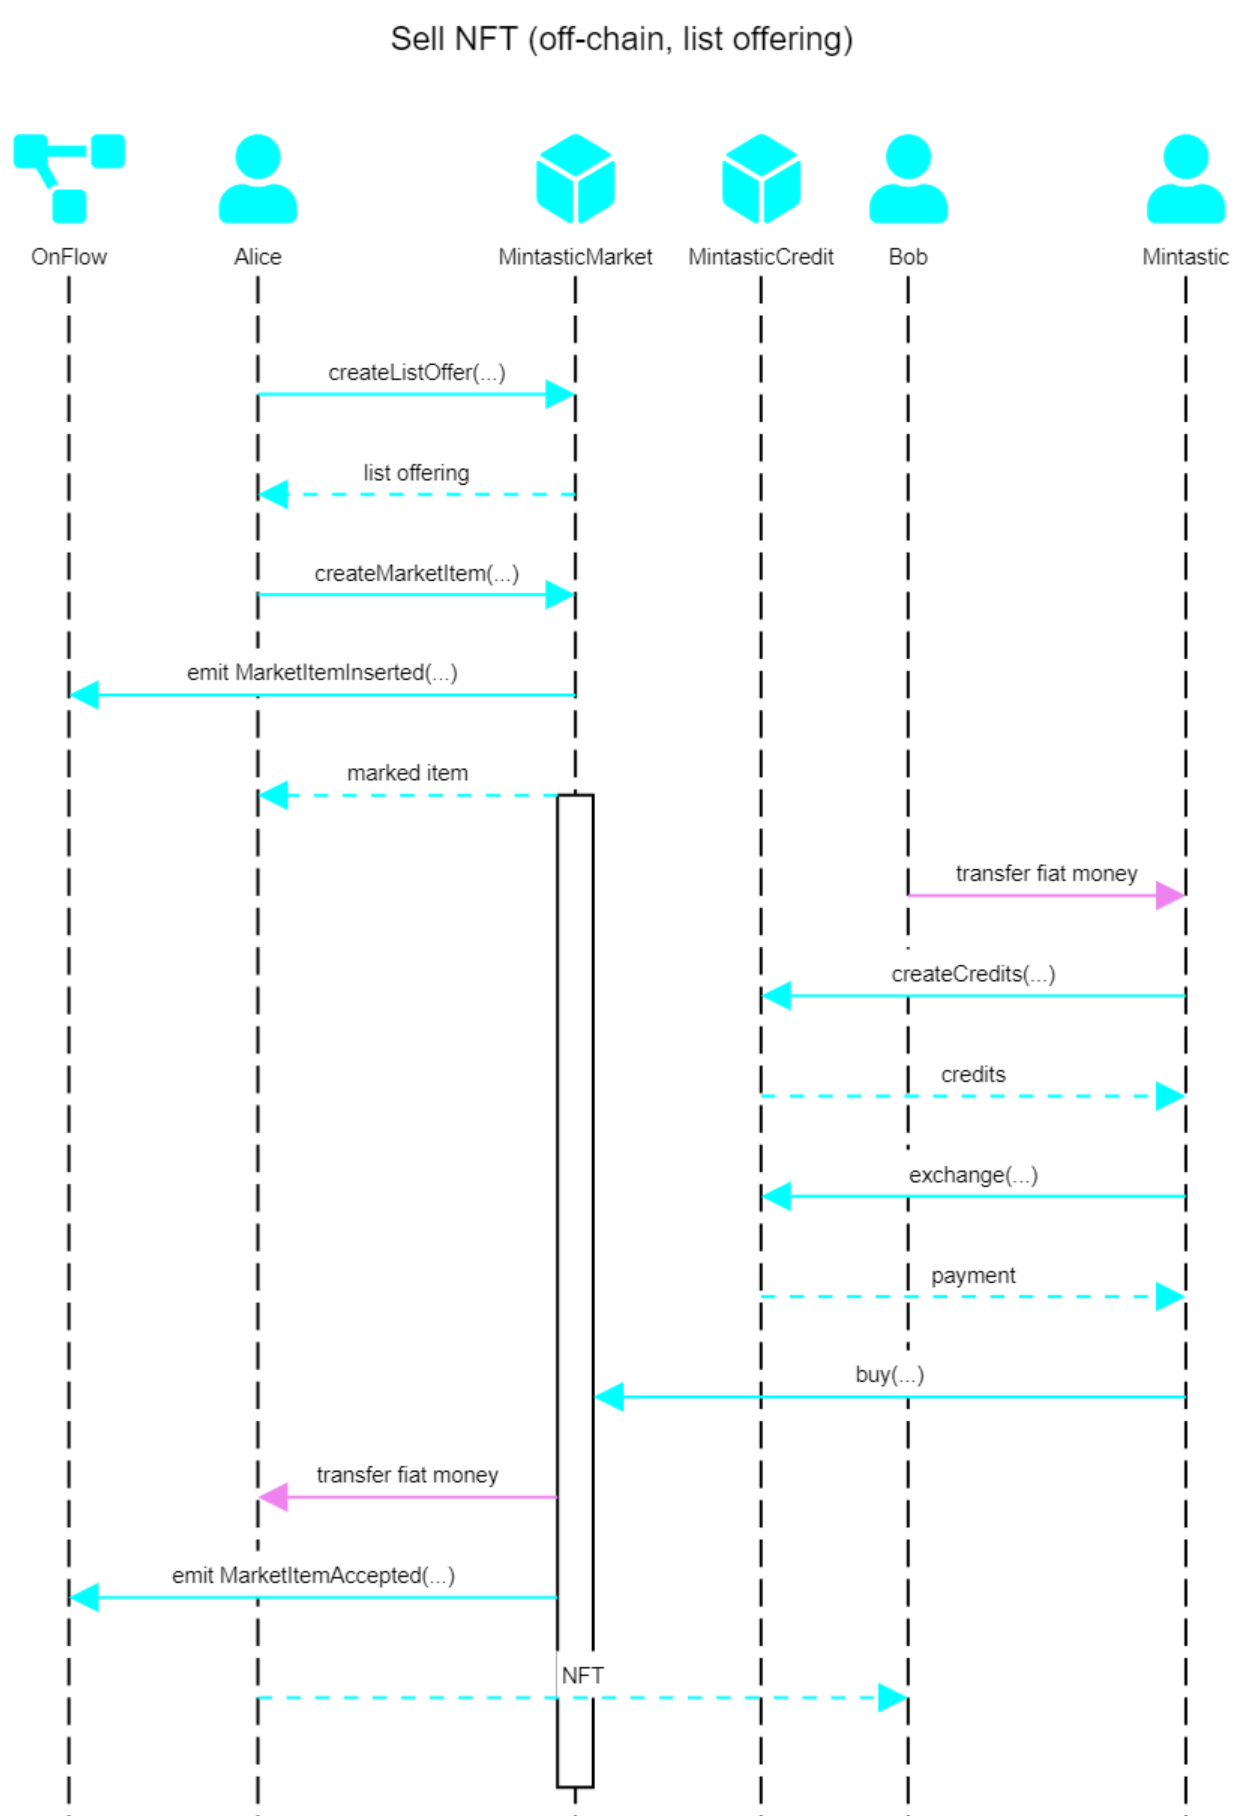
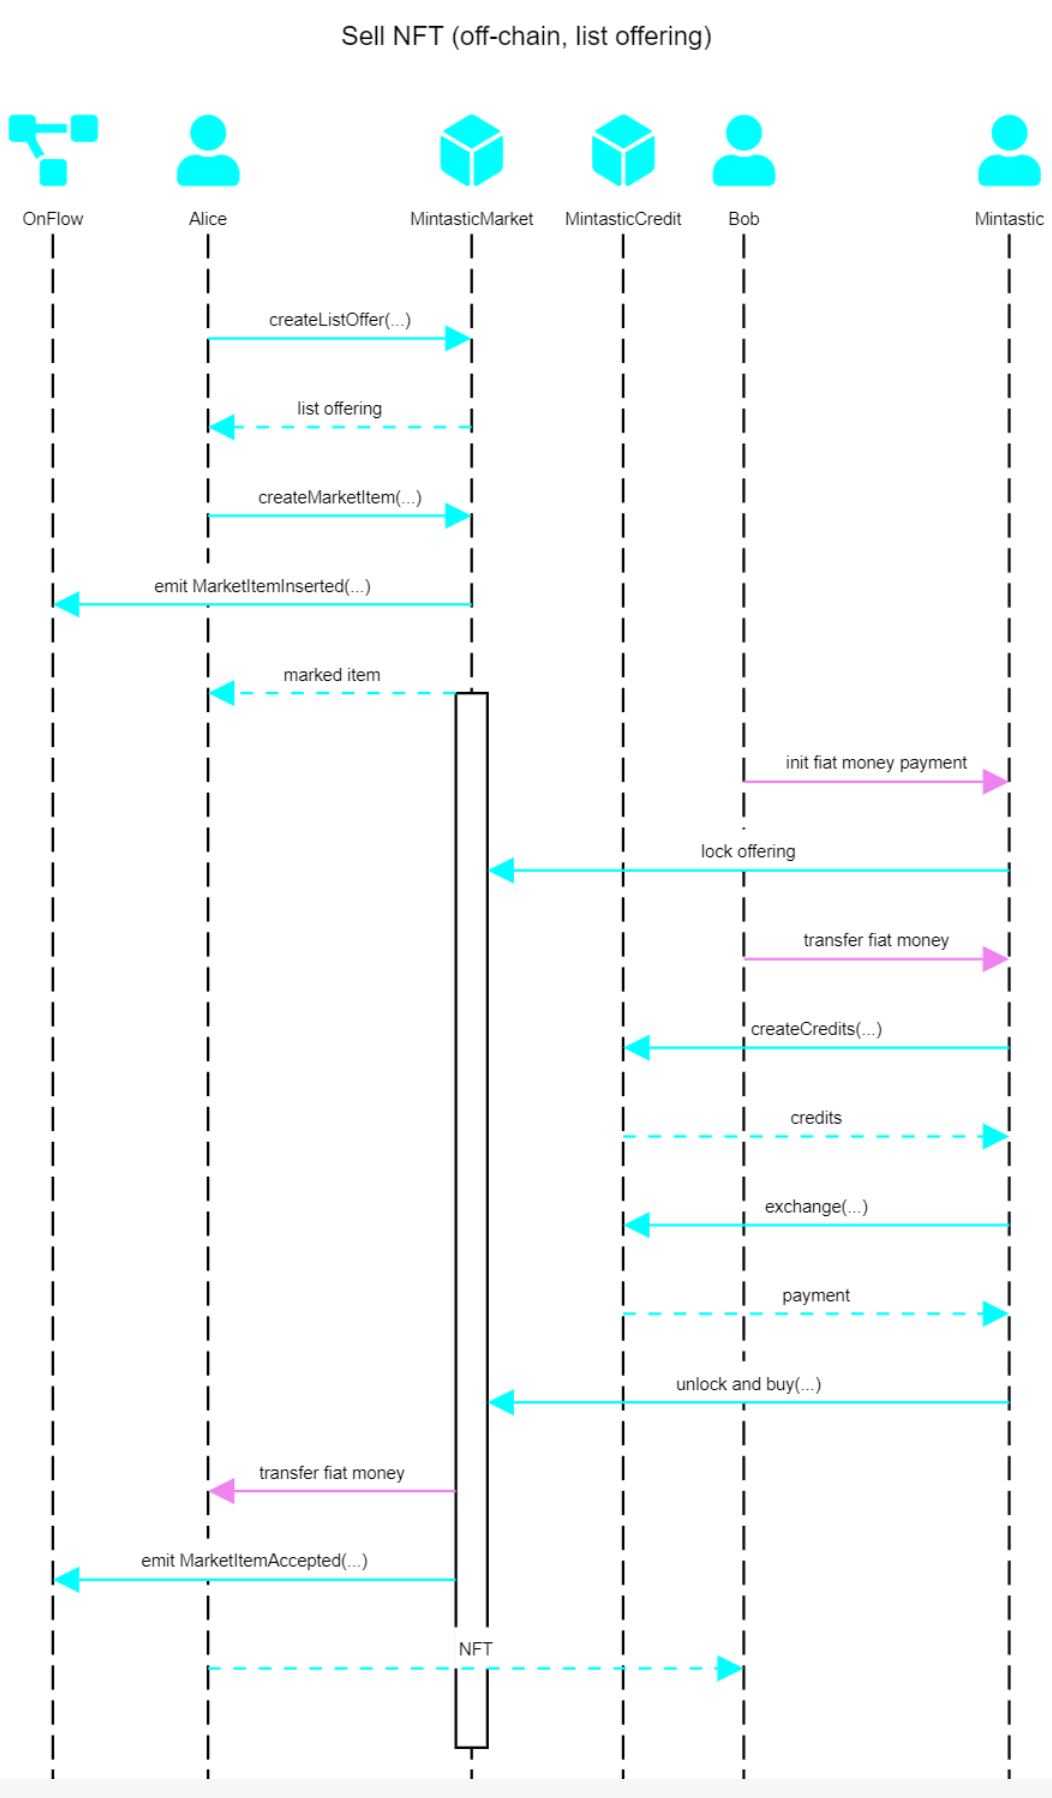
transactions added, documentation modified

diff --git a/test/mintastic-market.test.ts b/test/mintastic-market.test.ts
@@ -2,9 +2,9 @@ import {createAsset, mint, setupCollector} from "../src";
 import {v4 as uuid} from "uuid"
 import {newAsset} from "./utils/assets";
 import {createListOffer} from "../src/transactions/market/create-list-offer";
-import {buy} from "../src/transactions/market/buy";
+import {buyWithFiat} from "../src/transactions/market/buy-with-fiat";
 import {createLazyOffer} from "../src/transactions/market/create-lazy-offer";
-import {bid} from "../src/transactions/market/bid";
+import {bidWithFiat} from "../src/transactions/market/bid-with-fiat";
 import {readBids} from "../src/scripts/market/read-bids";
 import {acceptBid} from "../src/transactions/market/accept-bid";
 import {readTokenIds} from "../src/scripts/account/read-token-ids";
@@ -26,6 +26,7 @@ import {setExchangeRate} from "../src/transactions/credit/set-exchange-rate";
 import {bidWithFlow} from "../src/transactions/market/bid-with-flow";
 import {setupCreator} from "../src/transactions/account/setup-creator";
 import {getEvents} from "./utils/get-events";
+import {lockOffering} from "../src/transactions/market/lock-offering";
 
 describe("test mintastic market contract", function () {
     beforeAll(async () => {
@@ -43,16 +44,17 @@ describe("test mintastic market contract", function () {
         await engine.execute(createListOffer(alice, asset.assetId!, "1000.0"))
 
         // buy should fail when balance is too low
-        await expectError(engine.execute(buy(alice, bob, asset.assetId!, "100.0", 10)), invalidBalance);
+        await expectError(engine.execute(buyWithFiat(alice, bob, asset.assetId!, "100.0", 10)), invalidBalance);
         // buy should fail when demand exceeds supply
-        await expectError(engine.execute(buy(alice, bob, asset.assetId!, "1000.0", 12)), invalidDemand);
+        await expectError(engine.execute(buyWithFiat(alice, bob, asset.assetId!, "1000.0", 12)), invalidDemand);
 
-        await engine.execute(buy(alice, bob, asset.assetId!, "1000.0", 2));
-        await engine.execute(buy(alice, bob, asset.assetId!, "1000.0", 6));
-        await engine.execute(buy(alice, bob, asset.assetId!, "1000.0", 2));
+        await engine.execute(lockOffering(alice, asset.assetId!, 10))
+        await engine.execute(buyWithFiat(alice, bob, asset.assetId!, "1000.0", 2, true));
+        await engine.execute(buyWithFiat(alice, bob, asset.assetId!, "1000.0", 6, true));
+        await engine.execute(buyWithFiat(alice, bob, asset.assetId!, "1000.0", 2, true));
 
         // buy should fail when market item is sold out
-        await expectError(engine.execute(buy(alice, bob, asset.assetId!, "1000.0", 2)), noItem);
+        await expectError(engine.execute(buyWithFiat(alice, bob, asset.assetId!, "1000.0", 2)), noItem);
     });
     test("buy NFT (off-chain, lazy offer)", async () => {
         const {engine, mintastic, alice, bob} = await getEnv()
@@ -62,16 +64,16 @@ describe("test mintastic market contract", function () {
         await engine.execute(createLazyOffer(alice, asset.assetId!, "1000.0"))
 
         // buy should fail when balance is too low
-        await expectError(engine.execute(buy(mintastic, bob, asset.assetId!, "100.0", 10)), invalidBalance);
+        await expectError(engine.execute(buyWithFiat(mintastic, bob, asset.assetId!, "100.0", 10)), invalidBalance);
         // buy should fail when demand exceeds supply
-        await expectError(engine.execute(buy(mintastic, bob, asset.assetId!, "1000.0", 12)), invalidDemand);
+        await expectError(engine.execute(buyWithFiat(mintastic, bob, asset.assetId!, "1000.0", 12)), invalidDemand);
 
-        await engine.execute(buy(mintastic, bob, asset.assetId!, "1000.0", 2));
-        await engine.execute(buy(mintastic, bob, asset.assetId!, "1000.0", 6));
-        await engine.execute(buy(mintastic, bob, asset.assetId!, "1000.0", 2));
+        await engine.execute(buyWithFiat(mintastic, bob, asset.assetId!, "1000.0", 2));
+        await engine.execute(buyWithFiat(mintastic, bob, asset.assetId!, "1000.0", 6));
+        await engine.execute(buyWithFiat(mintastic, bob, asset.assetId!, "1000.0", 2));
 
         // buy should fail when market item is sold out
-        await expectError(engine.execute(buy(mintastic, bob, asset.assetId!, "1000.0", 2)), noItem);
+        await expectError(engine.execute(buyWithFiat(mintastic, bob, asset.assetId!, "1000.0", 2)), noItem);
     });
     test("accept bid NFT (off-chain, list offer)", async () => {
         const {engine, alice, bob} = await getEnv()
@@ -81,7 +83,7 @@ describe("test mintastic market contract", function () {
         const ids = await engine.execute(readTokenIds(alice));
 
         await engine.execute(createListOffer(alice, asset.assetId!, "1000.0"))
-        await engine.execute(bid(alice, bob, asset.assetId!, "500.0", 1));
+        await engine.execute(bidWithFiat(alice, bob, asset.assetId!, "500.0", 1));
 
         const bids = await engine.execute(readBids(alice, asset.assetId!));
         await engine.execute(acceptBid(alice, asset.assetId!, bids[0]));
@@ -94,7 +96,7 @@ describe("test mintastic market contract", function () {
         const asset = await engine.execute(createAsset(newAsset(uuid(), uuid(), alice), 10));
 
         await engine.execute(createLazyOffer(alice, asset.assetId!, "1000.0"))
-        await engine.execute(bid(mintastic, bob, asset.assetId!, "500.0", 1));
+        await engine.execute(bidWithFiat(mintastic, bob, asset.assetId!, "500.0", 1));
 
         expect(await engine.execute(readAssetIds(bob))).not.toContain(asset.assetId);
 
@@ -108,8 +110,8 @@ describe("test mintastic market contract", function () {
         const asset = await engine.execute(createAsset(newAsset(uuid(), uuid(), alice), 10));
 
         await engine.execute(createLazyOffer(alice, asset.assetId!, "1000.0"))
-        await engine.execute(bid(mintastic, bob, asset.assetId!, "500.0", 1));
-        await engine.execute(bid(mintastic, bob, asset.assetId!, "450.0", 1));
+        await engine.execute(bidWithFiat(mintastic, bob, asset.assetId!, "500.0", 1));
+        await engine.execute(bidWithFiat(mintastic, bob, asset.assetId!, "450.0", 1));
 
         expect(await engine.execute(readAssetIds(bob))).not.toContain(asset.assetId);
 
@@ -122,8 +124,8 @@ describe("test mintastic market contract", function () {
         const asset = await engine.execute(createAsset(newAsset(uuid(), uuid(), alice), 10));
 
         await engine.execute(createLazyOffer(alice, asset.assetId!, "1000.0"))
-        await engine.execute(bid(mintastic, bob, asset.assetId!, "500.0", 1));
-        await engine.execute(bid(mintastic, bob, asset.assetId!, "450.0", 1));
+        await engine.execute(bidWithFiat(mintastic, bob, asset.assetId!, "500.0", 1));
+        await engine.execute(bidWithFiat(mintastic, bob, asset.assetId!, "450.0", 1));
 
         expect(await engine.execute(readAssetIds(bob))).not.toContain(asset.assetId);
 
@@ -222,7 +224,7 @@ describe("test mintastic market contract", function () {
         await engine.execute(createListOffer(alice, asset.assetId!, "1000.0"))
 
         // sell the asset and insert it to market
-        await engine.execute(buy(alice, bob, asset.assetId!, "1000.0", 1));
+        await engine.execute(buyWithFiat(alice, bob, asset.assetId!, "1000.0", 1));
         await engine.execute(setupCreator(bob))
         await engine.execute(createListOffer(bob, asset.assetId!, "10000.0"))
 

diff --git a/src/transactions/market/buy-with-fiat.ts b/src/transactions/market/buy-with-fiat.ts
@@ -4,16 +4,17 @@ import {CadenceEngine} from "../../cadence-engine";
 
 // noinspection DuplicatedCode
 /**
- * This transaction bids for a NFT by creating mintastic credits on the fly offering a fiat payment.
- * Due to the off-chain characteristics of this bid method, the mintastic contract owner issues this transaction.
+ * This transaction purchases a NFT by creating mintastic credits on the fly after a fiat payment.
+ * Due to the off-chain characteristics of this payment method, the mintastic contract owner issues this transaction.
  *
- * @param owner the owner of the market item
- * @param buyer the buyer of the market item
- * @param assetId the asset id of the market item
- * @param price the price of the market item
- * @param amount the number of times the item should be purchased
+ * @param owner
+ * @param buyer
+ * @param assetId
+ * @param price
+ * @param amount
+ * @param unlock indicates whether to unlock the offering before buying it
  */
-export function bid(owner: string, buyer: string, assetId: string, price: string, amount: number): (CadenceEngine) => Promise<void> {
+export function buyWithFiat(owner: string, buyer: string, assetId: string, price: string, amount: number, unlock: boolean = false): (CadenceEngine) => Promise<void> {
     if (!/^-?\d+(\.\d+)$/.test(price))
         throw Error("invalid price found");
     if (owner.length == 0)
@@ -27,7 +28,7 @@ export function bid(owner: string, buyer: string, assetId: string, price: string
 
     return (engine: CadenceEngine) => {
         const auth = engine.getAuth();
-        const code = engine.getCode("transactions/market/bid");
+        const code = engine.getCode(`transactions/market/${unlock ? "unlock-" : ""}buy-with-fiat`);
 
         // noinspection DuplicatedCode
         return fcl.send([

diff --git a/src/transactions/market/bid-with-fiat.ts b/src/transactions/market/bid-with-fiat.ts
@@ -4,16 +4,16 @@ import {CadenceEngine} from "../../cadence-engine";
 
 // noinspection DuplicatedCode
 /**
- * This transaction purchases a NFT by creating mintastic credits on the fly after a fiat payment.
- * Due to the off-chain characteristics of this payment method, the mintastic contract owner issues this transaction.
+ * This transaction bids for a NFT by creating mintastic credits on the fly offering a fiat payment.
+ * Due to the off-chain characteristics of this bid method, the mintastic contract owner issues this transaction.
  *
- * @param owner
- * @param buyer
- * @param assetId
- * @param price
- * @param amount
+ * @param owner the owner of the market item
+ * @param buyer the buyer of the market item
+ * @param assetId the asset id of the market item
+ * @param price the price of the market item
+ * @param amount the number of times the item should be purchased
  */
-export function buy(owner: string, buyer: string, assetId: string, price: string, amount: number): (CadenceEngine) => Promise<void> {
+export function bidWithFiat(owner: string, buyer: string, assetId: string, price: string, amount: number): (CadenceEngine) => Promise<void> {
     if (!/^-?\d+(\.\d+)$/.test(price))
         throw Error("invalid price found");
     if (owner.length == 0)
@@ -27,7 +27,7 @@ export function buy(owner: string, buyer: string, assetId: string, price: string
 
     return (engine: CadenceEngine) => {
         const auth = engine.getAuth();
-        const code = engine.getCode("transactions/market/buy-with-fiat");
+        const code = engine.getCode("transactions/market/bid");
 
         // noinspection DuplicatedCode
         return fcl.send([

diff --git a/src/transactions/market/unlock-offering.ts b/src/transactions/market/unlock-offering.ts
@@ -3,14 +3,14 @@ import * as t from "@onflow/types"
 import {CadenceEngine} from "../../cadence-engine";
 
 /**
- * This transaction is used to lock an nft offering of a market item.
+ * This transaction is used to unlock an nft offering of a market item.
  * The transaction is invoked by mintastic.
  *
  * @param owner the owner of the market item
  * @param assetId the asset id of the market item
  * @param amount the amount of items to lock
  */
-export function lockOffering(owner: string, assetId: string, amount: number): (CadenceEngine) => Promise<void> {
+export function unlockOffering(owner: string, assetId: string, amount: number): (CadenceEngine) => Promise<void> {
     if (owner.length == 0)
         throw Error("invalid owner address found");
     if (assetId.length == 0)
@@ -20,7 +20,7 @@ export function lockOffering(owner: string, assetId: string, amount: number): (C
 
     return (engine: CadenceEngine) => {
         const auth = engine.getAuth();
-        const code = engine.getCode("transactions/market/lock-offering");
+        const code = engine.getCode("transactions/market/unlock-offering");
 
         return fcl.send([
             fcl.transaction`${code}`,
